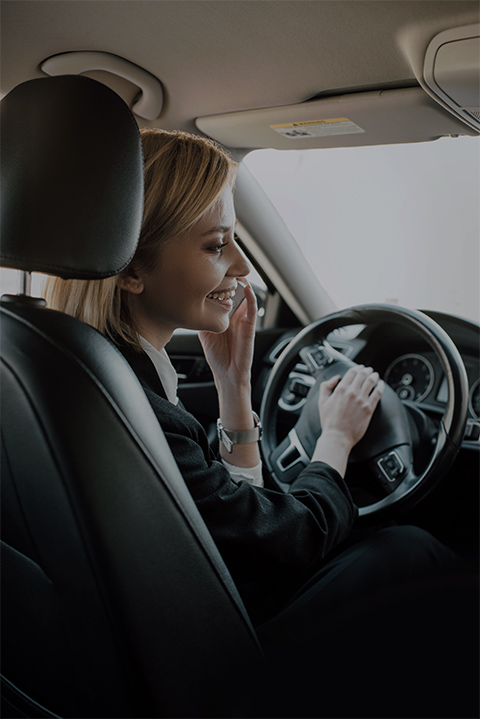
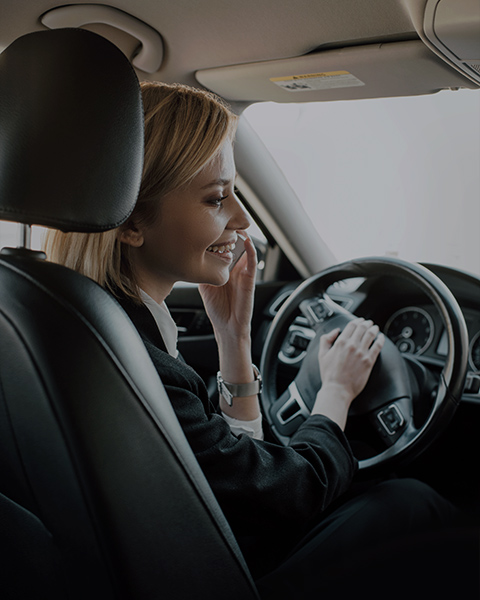
Resize images

diff --git a/pages/index.js b/pages/index.js
@@ -343,7 +343,7 @@ function Home() {
                   <Panel
                     className="row-span-4 col-span-4 lg:col-span-2"
                     title="Profesjonalne narzędzia lakiernicze"
-                    image="/car_painting.jpeg"
+                    image="/car_painting.jpg"
                   >
                     Własny mieszalnik cromax pro na bazie wody
                     <br />
@@ -602,7 +602,7 @@ function Home() {
                 <GalleryItem title="Profesjonalny sprzęt" image="/gallery2.jpg">
                   <FaTools className="gallery-item" />
                 </GalleryItem>
-                <GalleryItem title="Doskonała obsluga" image="/gallery3.png">
+                <GalleryItem title="Doskonała obsluga" image="/gallery3.jpg">
                   <FaHandshake className="gallery-item text-6xl" />
                 </GalleryItem>
                 <GalleryItem title="Zadowoleni klienici" image="/gallery4.jpg">
@@ -631,7 +631,7 @@ function Home() {
                 style={{
                   backgroundImage: 'url(/lakiernia.jpg)',
                   backgroundSize: 'cover',
-                  backgroundPosition: 'center',
+                  backgroundPosition: 'left',
                   backgroundAttachment: 'fixed',
                 }}
               />
@@ -931,7 +931,7 @@ function GalleryItem({ image, title, children }) {
     <div
       style={{
         backgroundImage: `url(${image})`,
-        paddingTop: '150%',
+        paddingTop: '125%',
       }}
       className="relative overflow-hidden bg-contain bg-no-repeat hover:scale-105 transform  duration-300"
     >
